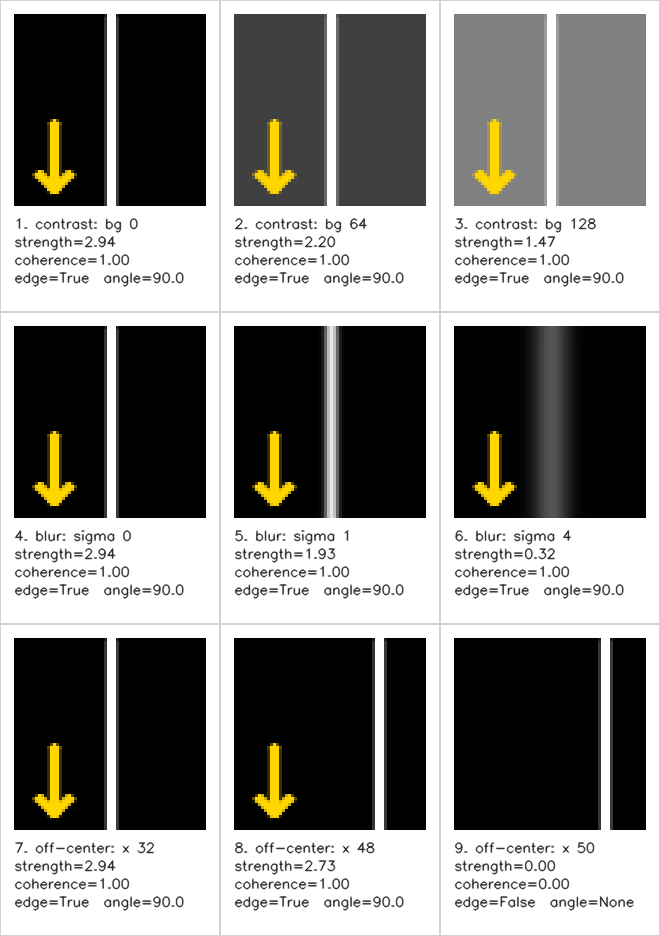
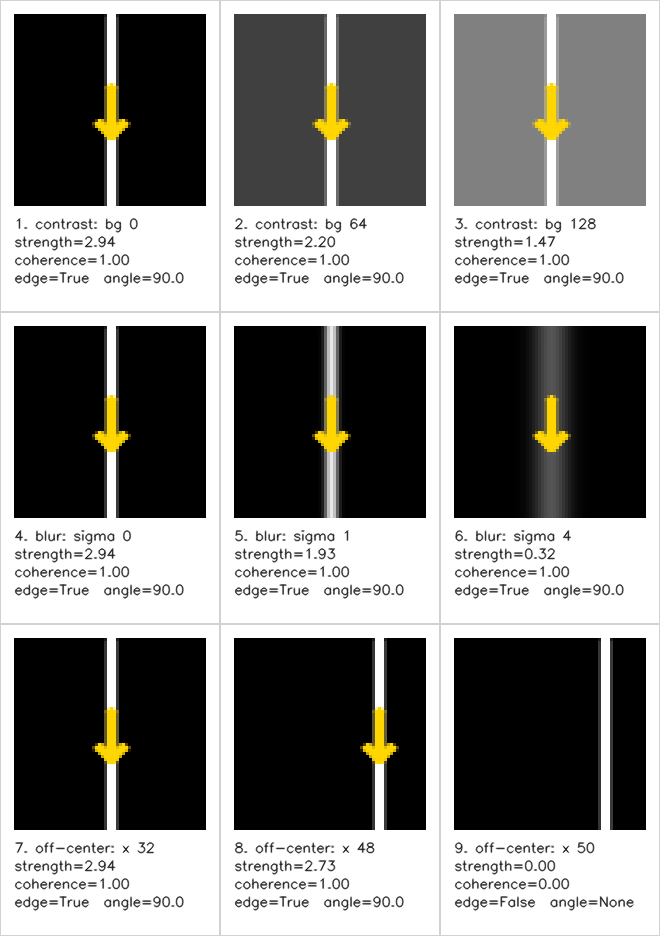
docs: center edge strength arrows on lines

diff --git a/sandbox/generate_edge_strength_doc_images.py b/sandbox/generate_edge_strength_doc_images.py
@@ -174,7 +174,11 @@ def sensor_observation(image: np.ndarray) -> SensorObservation:
     )
 
 
-def annotate_detected_angle(image: np.ndarray, angle_rad: float | None) -> np.ndarray:
+def annotate_detected_angle(
+    image: np.ndarray,
+    angle_rad: float | None,
+    x_position: int,
+) -> np.ndarray:
     """Overlay the detected edge angle as a display-only arrow.
 
     Returns:
@@ -185,8 +189,8 @@ def annotate_detected_angle(image: np.ndarray, angle_rad: float | None) -> np.nd
     if angle_rad is None:
         return annotated
 
-    center = np.array([13.0, 47.0])
-    length = 22.0
+    center = np.array([float(x_position), IMAGE_SIZE / 2.0])
+    length = 16.0
     direction = np.array([np.cos(angle_rad), np.sin(angle_rad)])
     start = center - 0.5 * length * direction
     end = center + 0.5 * length * direction
@@ -238,7 +242,11 @@ def generate_examples(output_dir: Path) -> list[ScoredStrengthCase]:
     for index, case in enumerate(CASES, start=1):
         raw_image = render_raw_patch(case)
         edge = detector(sensor_observation(raw_image))
-        annotated_image = annotate_detected_angle(raw_image, edge.angle)
+        annotated_image = annotate_detected_angle(
+            raw_image,
+            edge.angle,
+            case.x_position,
+        )
         filename = f"{index:02d}_{case.name}.png"
         save_rgb_png(output_dir / filename, annotated_image)
         examples.append(
